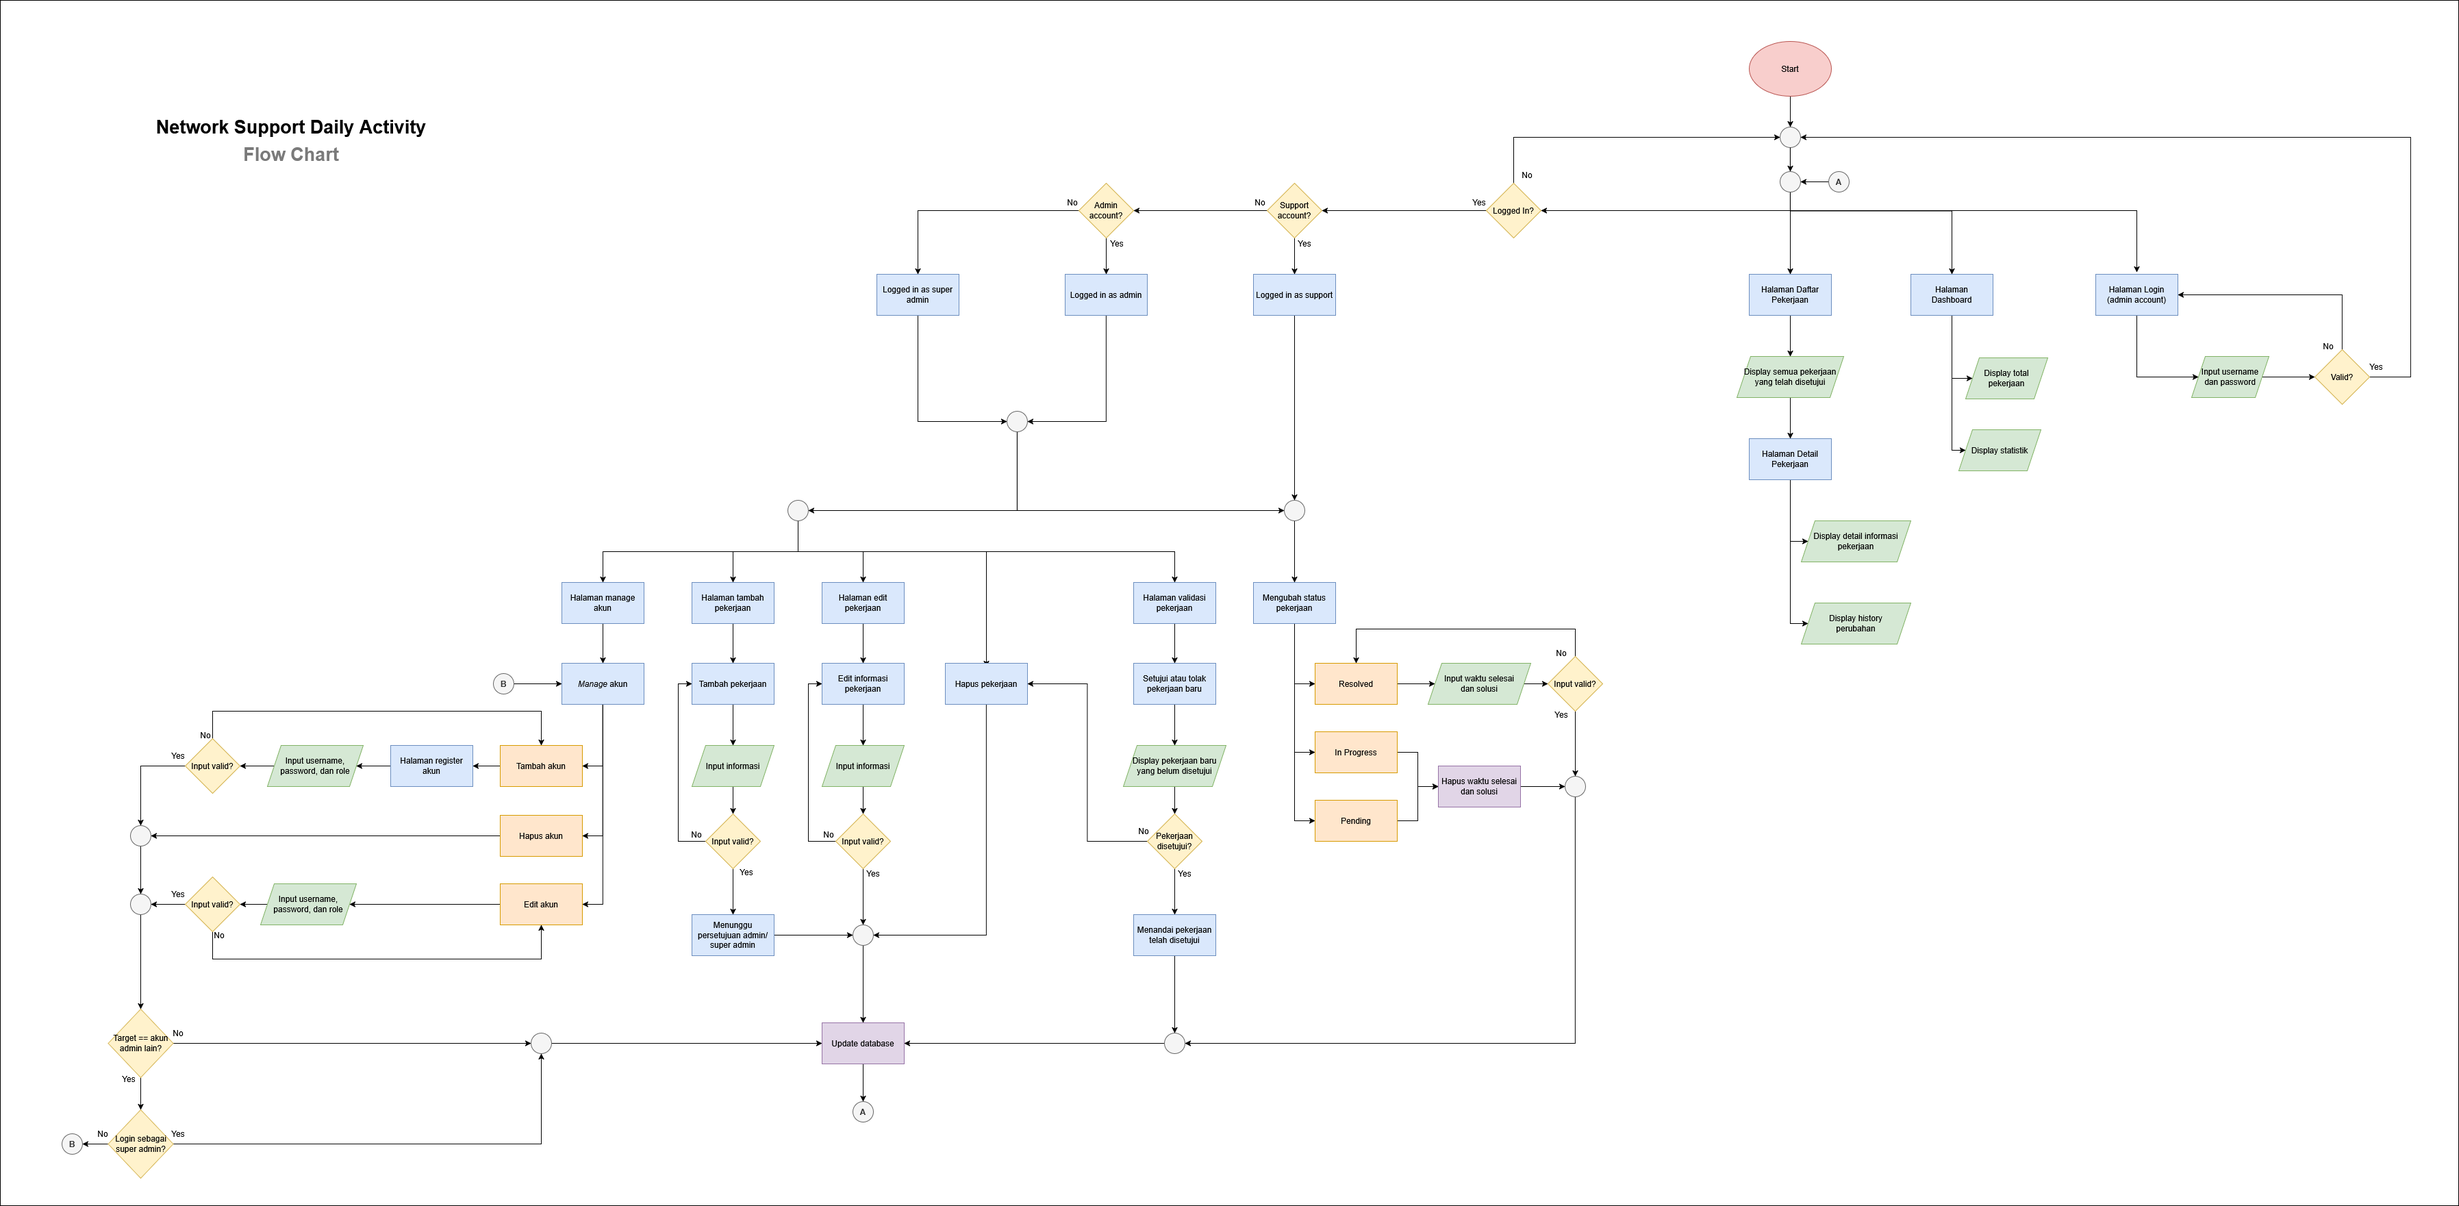
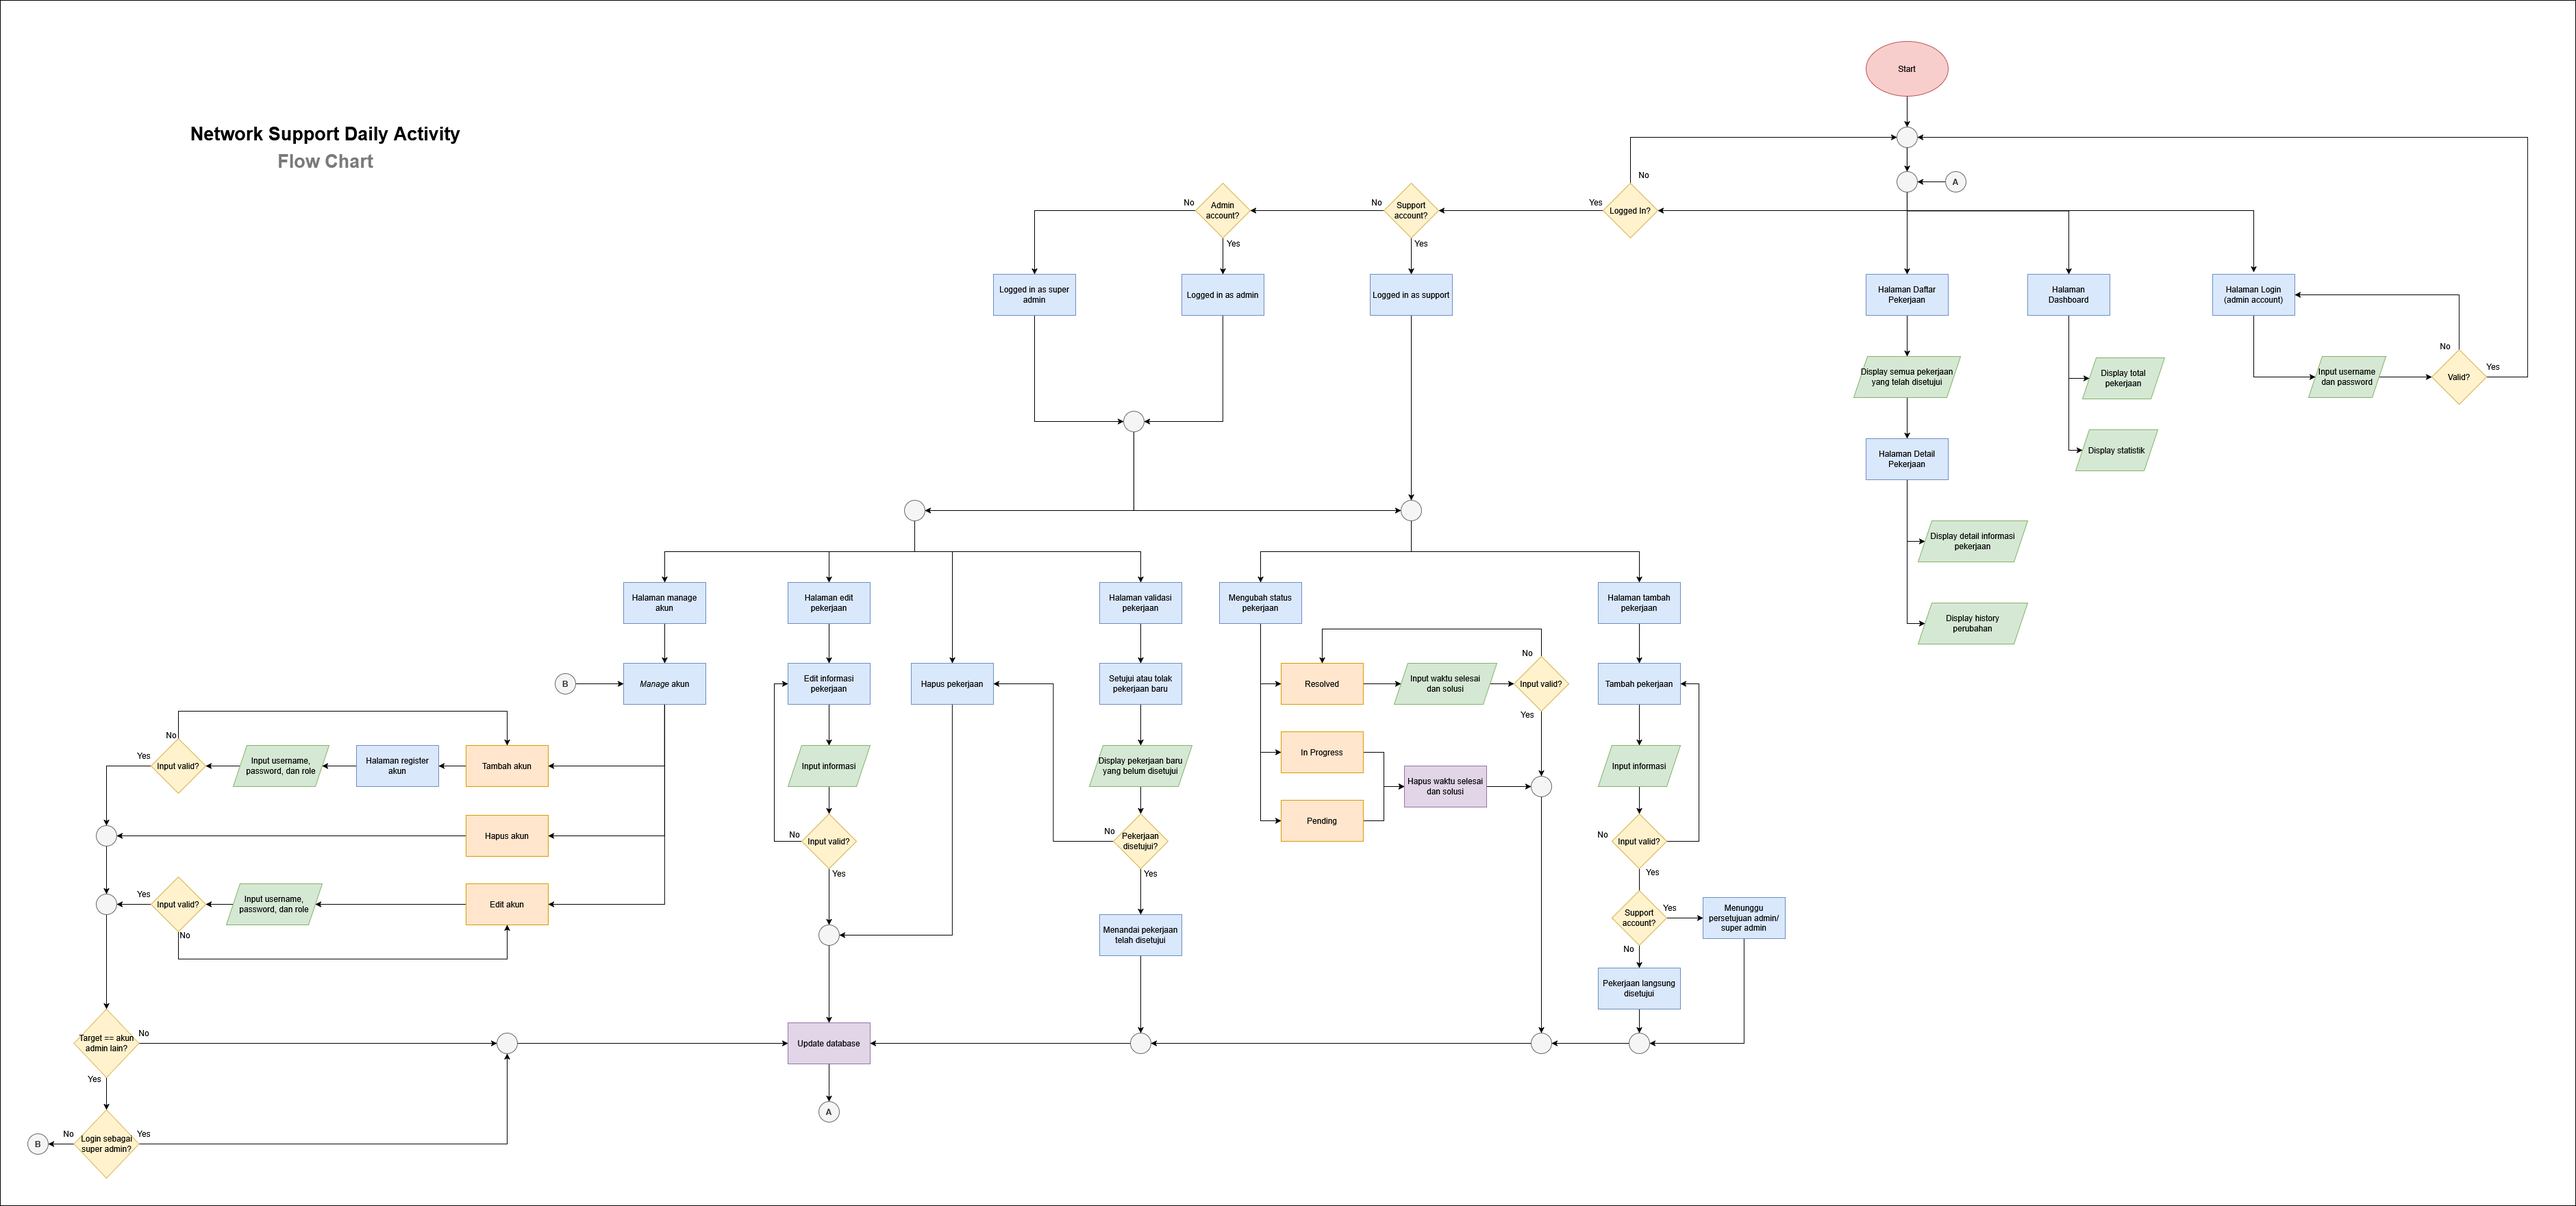
Bugs Fixed & Correcting Flowchart

diff --git a/Frontend/src/components/form.jsx b/Frontend/src/components/form.jsx
@@ -6,6 +6,8 @@ import { useNavigate } from 'react-router-dom';
 const Form = () => {
     const navigate = useNavigate();
     const userId = sessionStorage.getItem("userId");
+    const userRole = sessionStorage.getItem("userRole");
+    const [isValidate, setIsValidate] = useState(false);
 
     const [formData, setFormData] = useState({
         kategori: "",
@@ -99,6 +101,10 @@ const Form = () => {
     const handleSubmit = async (e) => {
         e.preventDefault();
 
+        if (userRole != "Support")(
+            setIsValidate(true)
+        )
+
         // First, validate the form
         if (validateForm()) {
             // Combine date and time into ISO 8601 format
@@ -135,6 +141,7 @@ const Form = () => {
                 tanggal_selesai: null,
                 jam_selesai: null,
                 edited_by: userId,
+                is_validate: isValidate,
                 sla_id: formData.sla_id || null,
             };
 

diff --git a/Frontend/src/pages/editpage.jsx b/Frontend/src/pages/editpage.jsx
@@ -11,7 +11,7 @@ const EditPage = () => {
 
         if (isLoggedIn === "false") {
             navigate('/login');
-        } else if (sessionStorage.getItem("userRole") != "Admin") {
+        } else if (sessionStorage.getItem("userRole") !== "Admin" && sessionStorage.getItem("userRole") !== "Super Admin") {
             navigate('/dashboard');
         };
     }, [navigate]);
